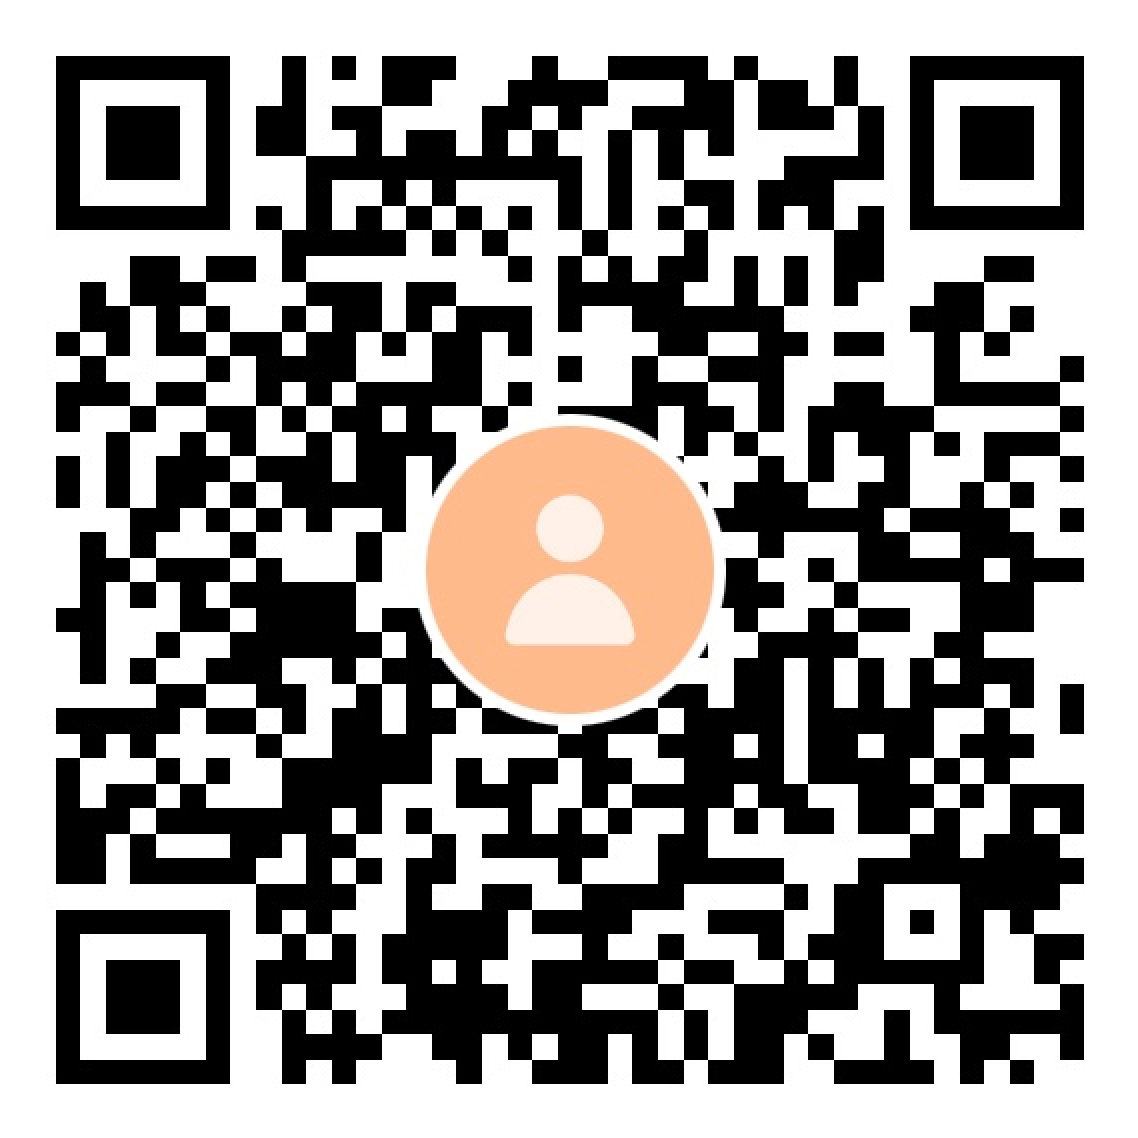
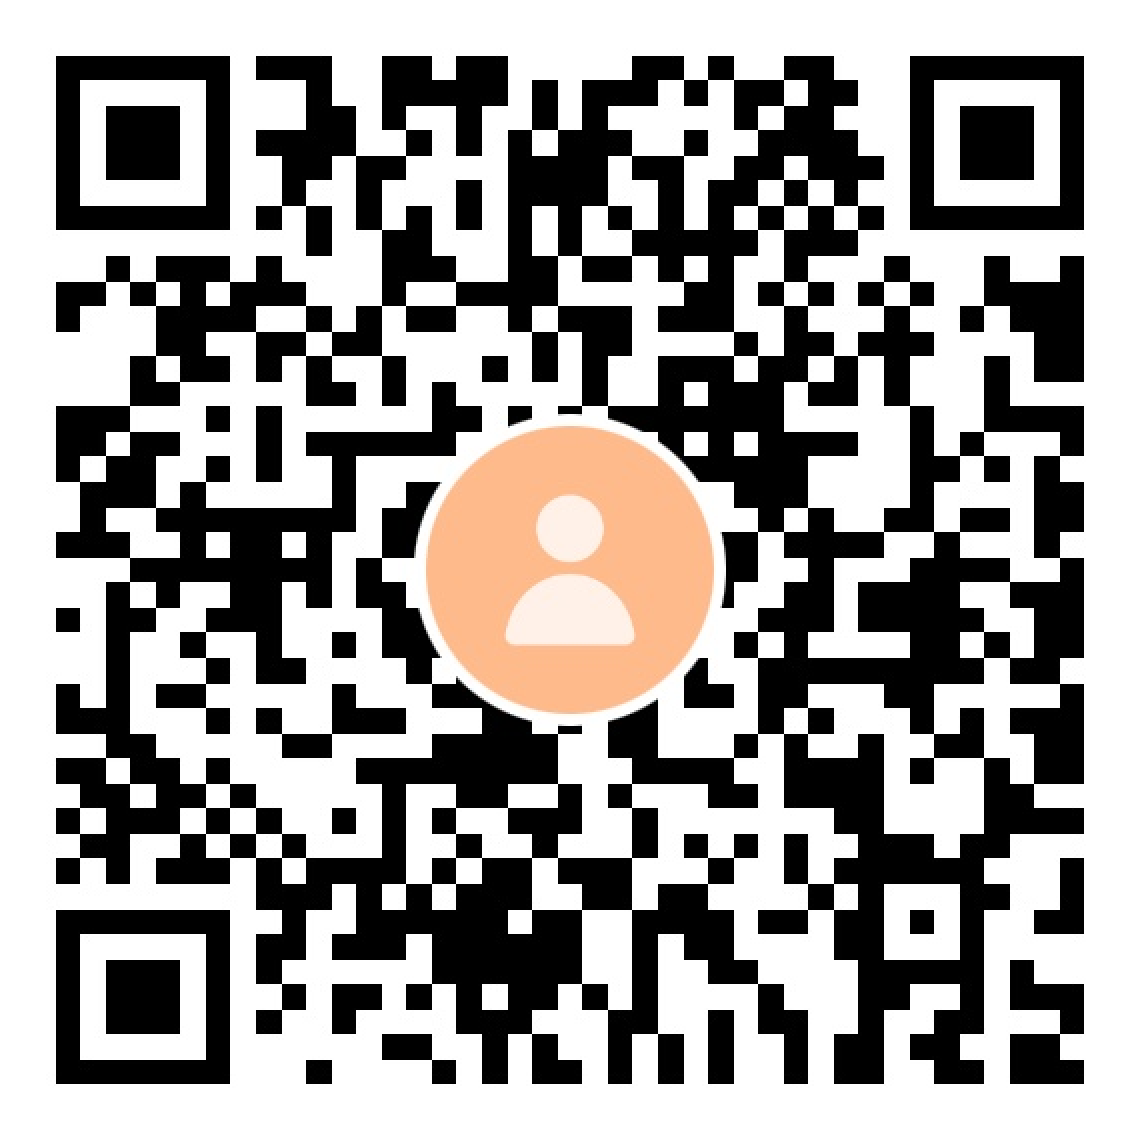
feat(seventhgarden): 個別応援枠復活（tasks#2 復活要望 2026-11-08）— ArtistCard/ArtistDetailPage/HomePage/TipModal/backoffice、PayPay新リンク p2p01_WrHTwc54Mdz8OFvn、paypay-qr.png再発行スクショへ差し替え

diff --git a/src/pages/HomePage.jsx b/src/pages/HomePage.jsx
@@ -123,6 +123,113 @@ export default function HomePage({ artists, tips, onOpenTipModal, onSelectArtist
       </div>
       )}
 
+      {/* ARTIST GOALS & PAYPAY — 自己実現枠セクション */}
+      {artists.some(a => a.supportGoal) && (() => {
+        const featuredList = artists
+          .filter(a => a.supportGoal)
+          .sort((a, b) => {
+            const nameLower = (a.name || "").toLowerCase();
+            if (nameLower.includes("dune") || nameLower.includes("kassis")) return -1;
+            return 1;
+          });
+        return (
+          <div className="mt-6 mb-4 overflow-hidden">
+            <div className="bg-gradient-to-r from-dark-surface/80 to-dark-card border border-neon-purple/30 rounded-2xl p-4 md:p-5 shadow-lg relative group hover:border-red-500/50 transition-all">
+              <div className="flex items-center justify-between flex-wrap gap-1.5 mb-3.5">
+                <div className="flex items-center gap-2">
+                  <span className="text-xl">🎯</span>
+                  <h2 className="text-xs md:text-sm font-black text-white font-sans">
+                    アーティストの自己実現プロジェクト
+                  </h2>
+                  <span className="inline-flex items-center gap-1 px-2 py-0.5 rounded-full bg-red-500/20 text-red-300 border border-red-500/40 text-[9px] font-mono font-extrabold uppercase">
+                    <Heart className="w-2.5 h-2.5 fill-red-400 text-red-400" />
+                    PayPay Support Accepted
+                  </span>
+                </div>
+                <div className="flex items-center gap-1 text-[9px] md:text-[10px] font-mono text-neon-cyan font-bold">
+                  <Sparkles className="w-3 h-3 text-neon-yellow" />
+                  <span>PayPayで各アーティストの目標を直接応援！</span>
+                </div>
+              </div>
+
+              <div className="grid grid-cols-1 md:grid-cols-2 gap-4">
+                {featuredList.map((artist) => {
+                  const goal = artist.supportGoal;
+                  return (
+                    <div 
+                      key={`goal-${artist.id}`}
+                      className="p-4 rounded-xl bg-gradient-to-br from-red-950/40 via-dark-bg to-pink-950/30 border border-red-500/30 hover:border-red-500/70 transition-all flex flex-col justify-between shadow-lg group/goal-card"
+                    >
+                      <div className="space-y-2">
+                        <div className="flex items-center justify-between text-[10px] font-mono">
+                          <span className="px-2 py-0.5 rounded bg-red-500/20 text-red-300 font-bold border border-red-500/30 flex items-center gap-1">
+                            <Target className="w-3 h-3" />
+                            自己実現プロジェクト
+                          </span>
+                          <span className="text-gray-400 truncate max-w-[110px] md:max-w-[130px]">
+                            @{artist.name}
+                          </span>
+                        </div>
+
+                        <h3 className="text-xs md:text-sm font-black text-white leading-snug">
+                          {goal.title}
+                        </h3>
+
+                        <p className="text-[11px] md:text-xs text-gray-300 leading-relaxed line-clamp-3">
+                          {goal.description}
+                        </p>
+
+                        {goal.amount && (
+                          <div className="mt-2 flex items-center justify-between text-[10px] font-mono text-gray-400">
+                            <span>目標金額:</span>
+                            <span className="text-neon-yellow font-bold">
+                              {goal.amount}
+                            </span>
+                          </div>
+                        )}
+
+                        <div className="mt-1.5 flex items-center justify-between text-[10px] font-mono text-gray-400">
+                          <span>送金時メモ欄キーワード:</span>
+                          <span className="text-white font-extrabold">
+                            {goal.memoKeyword || artist.name}
+                          </span>
+                        </div>
+                      </div>
+
+                      <div className="mt-3.5 pt-3 border-t border-red-500/20 flex gap-2">
+                        <button
+                          onClick={() => onOpenTipModal(artist, "paypay")}
+                          className="flex-1 bg-gradient-to-r from-red-500 via-pink-600 to-neon-purple text-white font-black text-xs py-2 rounded-lg shadow hover:opacity-95 transition-all flex items-center justify-center gap-1.5 active:scale-95"
+                        >
+                          <Heart className="w-3.5 h-3.5 fill-white" />
+                          <span>PayPayで応援する</span>
+                        </button>
+
+                        <button
+                          onClick={() => onSelectArtist(artist)}
+                          className="px-3 py-2 rounded-lg bg-dark-surface hover:bg-dark-border/40 border border-dark-border text-gray-300 text-[11px] font-mono transition-all flex items-center justify-center gap-1"
+                        >
+                          <span>詳細</span>
+                          <ArrowUpRight className="w-3 h-3" />
+                        </button>
+                      </div>
+                    </div>
+                  );
+                })}
+              </div>
+
+              <div className="mt-3 p-2.5 rounded-xl bg-dark-bg/50 border border-dark-border text-[10px] text-gray-400 font-mono leading-relaxed flex items-start gap-1.5">
+                <span className="mt-0.5">💡</span>
+                <span>
+                  トップページの各アーティストカードおよび「出演者一覧」から、<strong className="text-white">「PayPayで応援」</strong>ボタンを押して個別に応援することができます。
+                  直接PayPayアプリで送金される場合は、メモ欄に<span className="text-white font-bold">「アーティスト名キーワード（例: DJ DUNE / KASSIS）」</span>を記載いただけると、目標達成の進捗確認に大変役立ちます！
+                </span>
+              </div>
+            </div>
+          </div>
+        );
+      })()}
+
       {/* Featured Artists Section / Coming Next placeholder */}
       <div>
         <div className="flex items-center justify-between mb-4">

diff --git a/src/components/backoffice/EventManagementTab.jsx b/src/components/backoffice/EventManagementTab.jsx
@@ -105,6 +105,24 @@ export default function EventManagementTab({ onEventUpdated }) {
     );
   };
 
+  // 自己実現ゴール項目の変更
+  const updateSupportGoal = (id, field, value) => {
+    setArtists((prev) =>
+      prev.map((a) => {
+        if (a.id === id) {
+          return {
+            ...a,
+            supportGoal: {
+              ...(a.supportGoal || {}),
+              [field]: value,
+            },
+          };
+        }
+        return a;
+      })
+    );
+  };
+
   // 新規アーティストの追加
   const handleAddArtist = () => {
     const newId = `artist_${Date.now()}`;
@@ -276,7 +294,7 @@ export default function EventManagementTab({ onEventUpdated }) {
             <div>
               <h3 className="text-sm font-extrabold text-white">出演アーティスト＆タイムテーブル</h3>
               <p className="text-[10px] text-gray-400 font-mono">
-                タイムテーブル順・プロフィール・SNS設定
+                タイムテーブル順・プロフィール・SNS/PayPay目標設定
               </p>
             </div>
           </div>
@@ -424,20 +442,55 @@ export default function EventManagementTab({ onEventUpdated }) {
                       />
                     </div>
 
-                    {/* SNS設定 (per-artist PayPayゴール設定は廃止済み) */}
+                    {/* SNS & 自己実現 / PayPay Goal Setting */}
                     <div className="p-3 bg-neon-yellow/5 border border-neon-yellow/20 rounded-xl space-y-2">
                       <span className="text-[10px] font-mono font-bold text-neon-yellow block">
-                        SNS (任意)
+                        自己実現ゴール・PayPay / SNS設定 (任意)
                       </span>
-                      <div className="space-y-0.5">
-                        <label className="text-[9px] text-gray-400">Instagram ID</label>
-                        <input
-                          type="text"
-                          value={artist.sns?.instagram || ""}
-                          onChange={(e) => updateArtist(artist.id, "sns", { instagram: e.target.value })}
-                          placeholder="username"
-                          className="w-full bg-dark-surface border border-dark-border rounded-lg px-2 py-1 text-[11px] text-white font-mono"
-                        />
+                      <div className="grid grid-cols-2 gap-2">
+                        <div className="space-y-0.5 col-span-2 md:col-span-1">
+                          <label className="text-[9px] text-gray-400">目標・プロジェクト名 (例: 機材レンズ購入支援)</label>
+                          <input
+                            type="text"
+                            value={artist.supportGoal?.title || ""}
+                            onChange={(e) => updateSupportGoal(artist.id, "title", e.target.value)}
+                            placeholder="例: DJ DUNE 機材カメラレンズ購入支援"
+                            className="w-full bg-dark-surface border border-dark-border rounded-lg px-2 py-1 text-[11px] text-white font-bold"
+                          />
+                        </div>
+
+                        <div className="space-y-0.5">
+                          <label className="text-[9px] text-gray-400">目標金額 (例: ¥150,000)</label>
+                          <input
+                            type="text"
+                            value={artist.supportGoal?.amount || ""}
+                            onChange={(e) => updateSupportGoal(artist.id, "amount", e.target.value)}
+                            placeholder="例: ¥150,000"
+                            className="w-full bg-dark-surface border border-dark-border rounded-lg px-2 py-1 text-[11px] text-white font-mono"
+                          />
+                        </div>
+
+                        <div className="space-y-0.5">
+                          <label className="text-[9px] text-gray-400">送金メモキーワード</label>
+                          <input
+                            type="text"
+                            value={artist.supportGoal?.memoKeyword || ""}
+                            onChange={(e) => updateSupportGoal(artist.id, "memoKeyword", e.target.value)}
+                            placeholder="例: DJ DUNE レンズ"
+                            className="w-full bg-dark-surface border border-dark-border rounded-lg px-2 py-1 text-[11px] text-white font-mono"
+                          />
+                        </div>
+
+                        <div className="space-y-0.5">
+                          <label className="text-[9px] text-gray-400">Instagram ID</label>
+                          <input
+                            type="text"
+                            value={artist.sns?.instagram || ""}
+                            onChange={(e) => updateArtist(artist.id, "sns", { instagram: e.target.value })}
+                            placeholder="username"
+                            className="w-full bg-dark-surface border border-dark-border rounded-lg px-2 py-1 text-[11px] text-white font-mono"
+                          />
+                        </div>
                       </div>
                     </div>
                   </div>

diff --git a/src/components/TipModal.jsx b/src/components/TipModal.jsx
@@ -1,12 +1,12 @@
 import React, { useState } from "react";
 import { useAuth } from "../context/useAuth";
 import { sendTipTransaction } from "../firebase/services";
-import { Heart, CheckCircle2, AlertCircle, X, Send, Info, Copy, Check, Coins, PartyPopper, ExternalLink } from "lucide-react";
+import { Heart, CheckCircle2, AlertCircle, X, Send, Info, Copy, Check, Coins, PartyPopper, Users, ExternalLink } from "lucide-react";
 import confetti from "canvas-confetti";
 
-export const PAYPAY_TRANSFER_URL = "https://qr.paypay.ne.jp/p2p01_Z42XbfzWP1YD3Vfe";
+export const PAYPAY_TRANSFER_URL = "https://qr.paypay.ne.jp/p2p01_WrHTwc54Mdz8OFvn";
 
-export default function TipModal({ artist, initialMode = "paypay", onClose, onSuccess }) {
+export default function TipModal({ artist, initialMode = "paypay", onClose, onSuccess, onNavigateToLineup }) {
   const { currentUser, userProfile, setUserProfile } = useAuth();
   
   // モード: アーティスト指定時は 'paypay'（直接実質支援）または 'point'（ゲーム内トークン）
@@ -245,6 +245,36 @@ export default function TipModal({ artist, initialMode = "paypay", onClose, onSu
                 <PartyPopper className="w-4 h-4 text-neon-yellow" />
                 <span>🎉 クラッカーを鳴らしてフロアを祝う！ (タップ)</span>
               </button>
+            </div>
+
+            {/* 各アーティスト個別への送金案内 */}
+            <div className="bg-gradient-to-br from-neon-purple/20 via-pink-500/15 to-neon-cyan/20 border border-neon-pink/40 p-3.5 rounded-2xl text-left space-y-2.5 shadow-lg">
+              <div className="flex items-start gap-2.5">
+                <span className="text-lg leading-none p-1 rounded-lg bg-neon-pink/20 border border-neon-pink/40 shrink-0">💡</span>
+                <div className="flex-1 min-w-0">
+                  <h4 className="text-xs font-black text-neon-yellow flex items-center gap-1">
+                    <span>各アーティスト（出演者）へ送金したい方へ</span>
+                  </h4>
+                  <p className="text-[11px] text-gray-200 mt-1 leading-relaxed">
+                    このQRコードは<span className="text-white font-bold">「イベント全体への支援」</span>です。
+                    DJ DUNE（レンズ購入支援）やKASSIS（福井・大阪拠点整備）など、<span className="text-neon-pink font-bold">それぞれのアーティストへ送金したい場合</span>は、
+                    <strong>「出演者一覧」</strong>やトップページの各カードにある
+                    <span className="inline-block px-1.5 py-0.5 mx-1 rounded bg-red-600 text-white font-mono text-[10px] font-bold shadow">PayPayで応援</span>
+                    ボタンを押してください。
+                  </p>
+                </div>
+              </div>
+
+              {onNavigateToLineup && (
+                <button
+                  type="button"
+                  onClick={onNavigateToLineup}
+                  className="w-full py-2 px-3 rounded-xl bg-gradient-to-r from-neon-pink/30 to-neon-purple/40 hover:from-neon-pink/50 hover:to-neon-purple/60 border border-neon-pink text-white font-bold text-xs flex items-center justify-center gap-1.5 transition-all active:scale-95 shadow-sm"
+                >
+                  <Users className="w-3.5 h-3.5 text-neon-cyan" />
+                  <span>出演者一覧から推しを選んでPayPay応援する →</span>
+                </button>
+              )}
             </div>
 
             {/* Instructions Steps */}

diff --git a/src/pages/ArtistDetailPage.jsx b/src/pages/ArtistDetailPage.jsx
@@ -94,8 +94,48 @@ export default function ArtistDetailPage({ artist, allTips, onBack, onOpenTipMod
             </div>
           )}
 
-          {/* Action Buttons: Point Secondary (per-artist PayPay removed) */}
+          {/* Self-Realization Goal Card (自己実現プロジェクト) */}
+          {artist.supportGoal && (
+            <div className="mt-5 p-4 rounded-2xl bg-gradient-to-br from-red-950/30 via-dark-surface to-pink-950/30 border border-red-500/50 space-y-2 shadow-lg">
+              <div className="flex items-center justify-between">
+                <div className="flex items-center gap-1.5 text-red-400 font-mono text-[10px] font-bold">
+                  <Target className="w-3.5 h-3.5" />
+                  <span>自己実現プロジェクト（投げ銭の使い道）</span>
+                </div>
+                {artist.supportGoal.tag && (
+                  <span className="text-[9px] font-mono px-2 py-0.5 rounded-full bg-red-500/20 text-red-300 border border-red-500/40 font-bold">
+                    {artist.supportGoal.tag}
+                  </span>
+                )}
+              </div>
+
+              <h3 className="text-sm font-black text-white leading-snug">
+                {artist.supportGoal.title}
+              </h3>
+
+              <p className="text-xs text-gray-300 leading-relaxed">
+                {artist.supportGoal.description}
+              </p>
+
+              <div className="pt-2 border-t border-red-500/20 flex items-center justify-between text-[10px] font-mono text-gray-400">
+                <span>送金時メモ欄キーワード</span>
+                <span className="font-extrabold text-neon-yellow">
+                  {artist.supportGoal.memoKeyword || artist.name}
+                </span>
+              </div>
+            </div>
+          )}
+
+          {/* Action Buttons: PayPay Primary & Point Secondary */}
           <div className="space-y-2 mt-5">
+            <button
+              onClick={() => onOpenTipModal(artist, "paypay")}
+              className="w-full bg-gradient-to-r from-red-500 via-pink-600 to-neon-purple text-white font-extrabold text-sm py-3.5 rounded-xl shadow-lg hover:opacity-95 transition-all flex items-center justify-center gap-2 active:scale-98"
+            >
+              <Heart className="w-4 h-4 fill-white text-white animate-pulse" />
+              <span>PayPayで【{artist.name}】を直接応援する（推奨）</span>
+            </button>
+
             <button
               onClick={() => onOpenTipModal(artist, "point")}
               className="w-full bg-dark-surface hover:bg-dark-border/40 border border-dark-border text-gray-300 hover:text-white font-mono text-xs py-2.5 rounded-xl transition-all flex items-center justify-center gap-1.5"

diff --git a/src/components/ArtistCard.jsx b/src/components/ArtistCard.jsx
@@ -56,6 +56,29 @@ export default function ArtistCard({ artist, onOpenTipModal, onSelectArtist }) {
             {artist.bio}
           </p>
 
+          {/* Self-Realization Goal Mini Preview */}
+          {artist.supportGoal && (
+            <div 
+              onClick={() => onSelectArtist(artist)}
+              className="mb-3 p-2 rounded-xl bg-red-950/25 border border-red-500/30 hover:border-red-500/60 cursor-pointer transition-all flex items-start gap-1.5 group/goal"
+            >
+              <span className="text-[11px] shrink-0 mt-0.5">🎯</span>
+              <div className="min-w-0 flex-1">
+                <div className="flex items-center gap-1.5">
+                  <span className="text-[9px] font-mono font-bold text-red-400">自己実現ゴール</span>
+                  {artist.supportGoal.tag && (
+                    <span className="text-[8px] font-mono px-1 py-0.2 rounded bg-red-500/20 text-red-300">
+                      {artist.supportGoal.tag}
+                    </span>
+                  )}
+                </div>
+                <p className="text-[11px] font-bold text-white truncate group-hover/goal:text-red-300 transition-colors">
+                  {artist.supportGoal.title}
+                </p>
+              </div>
+            </div>
+          )}
+
           {/* Points & Support Button Bar */}
           <div className="flex items-center justify-between pt-2 border-t border-dark-border/60">
             <div className="flex items-center gap-1 font-mono text-xs text-neon-yellow">
@@ -71,6 +94,14 @@ export default function ArtistCard({ artist, onOpenTipModal, onSelectArtist }) {
               >
                 <span>詳細</span>
                 <ChevronRight className="w-3 h-3" />
+              </button>
+
+              <button
+                onClick={() => onOpenTipModal(artist, "paypay")}
+                className="flex items-center gap-1 bg-gradient-to-r from-red-500 via-pink-600 to-neon-purple hover:opacity-95 text-white font-bold text-xs px-3 py-1.5 rounded-xl shadow-md transition-all active:scale-95"
+              >
+                <Heart className="w-3.5 h-3.5 fill-white text-white" />
+                <span>PayPay / 応援</span>
               </button>
             </div>
           </div>

diff --git a/src/App.jsx b/src/App.jsx
@@ -45,6 +45,12 @@ function MainApp() {
     setActiveTab("detail");
   };
 
+  const handleNavigateToLineup = () => {
+    setTipModalConfig(null);
+    setSelectedArtistDetail(null);
+    setActiveTab("lineup");
+  };
+
   const handleTipSuccess = () => {
     loadData();
   };
@@ -121,6 +127,7 @@ function MainApp() {
           initialMode={tipModalConfig.mode}
           onClose={() => setTipModalConfig(null)}
           onSuccess={handleTipSuccess}
+          onNavigateToLineup={handleNavigateToLineup}
         />
       )}
 
